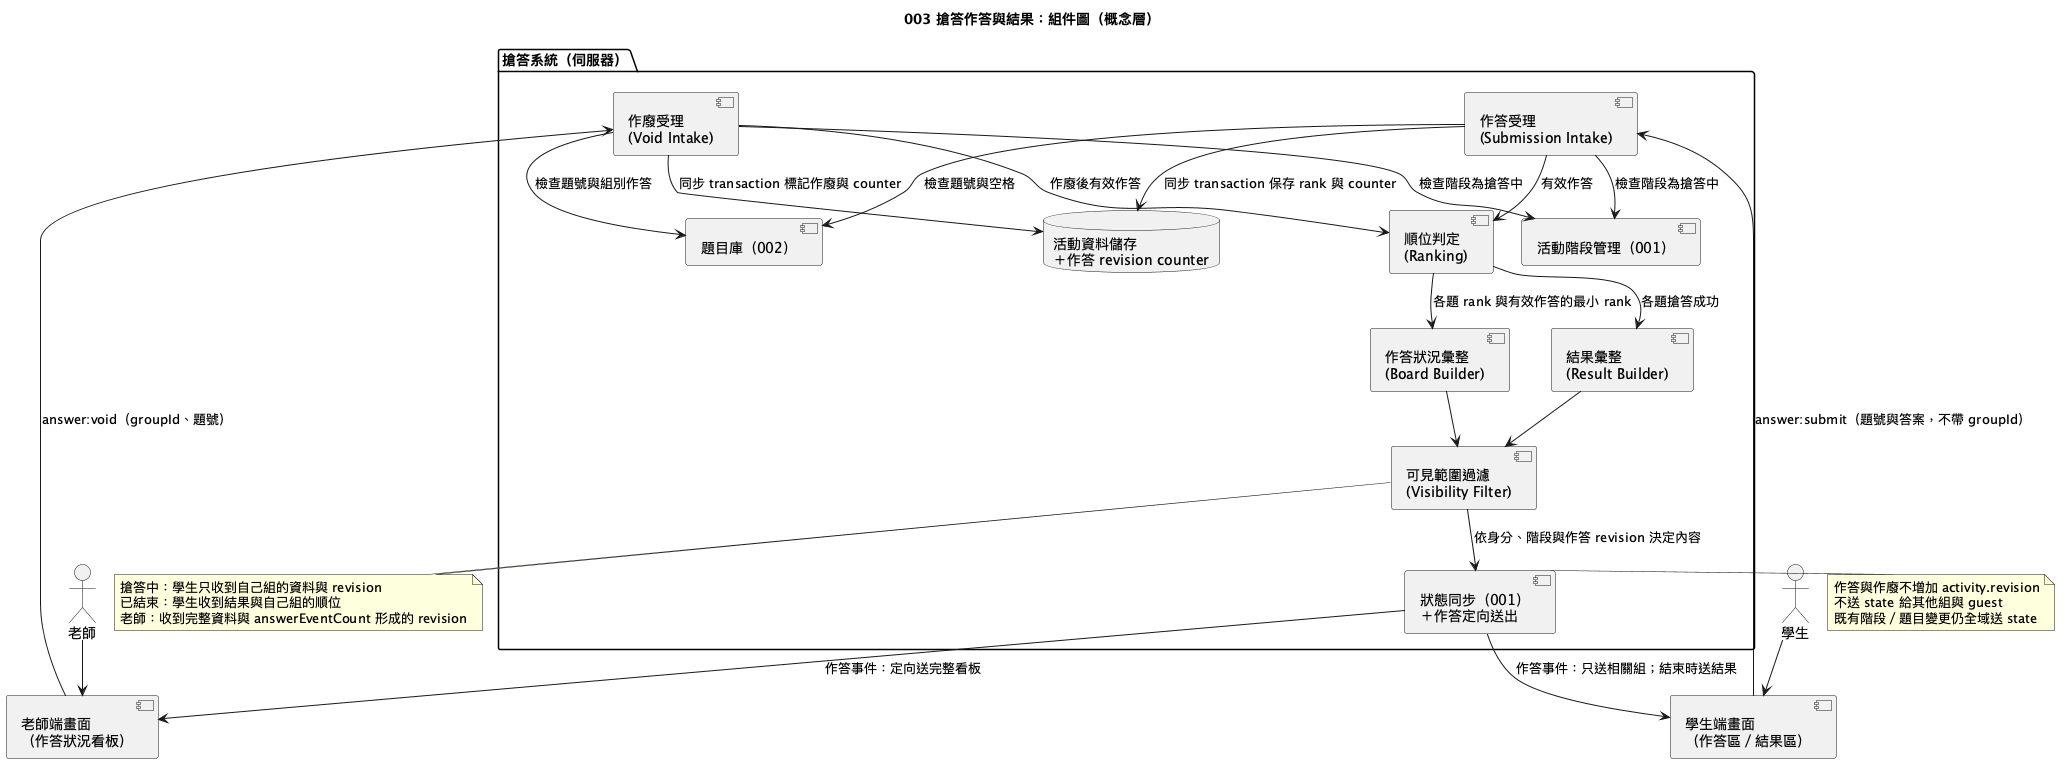
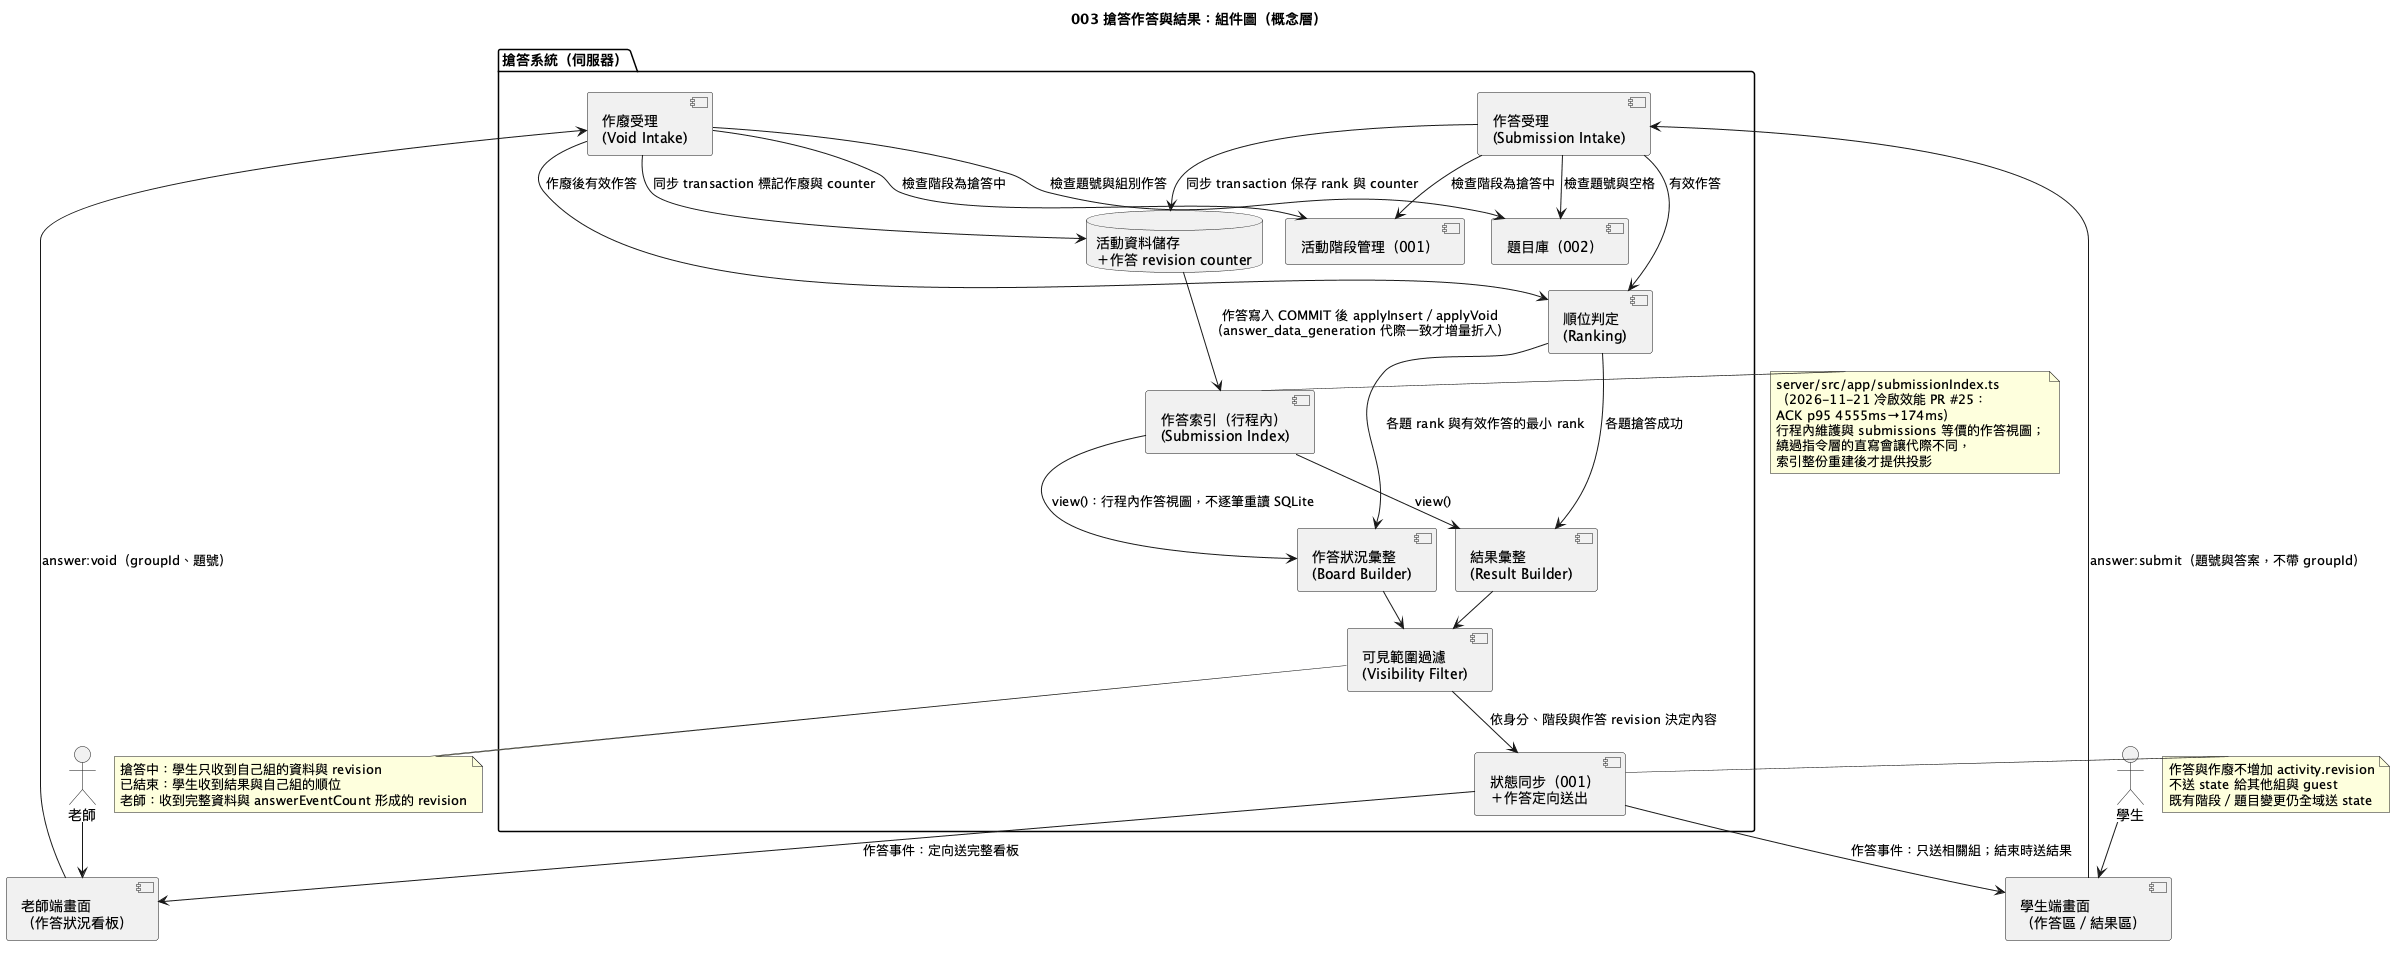
docs(diagrams): 補上 #25/#26/#28 新增模組的圖、plan 對應與 tasks 補記
Diagram First 的最後一哩：11-21～11-23 合併的效能與資安 PR 新增了四個
伺服器模組，但圖沒有跟著更新（001/003 的一致性核對分別停在 11-12、
11-14），「最終程式碼要和圖表完全一致」因此不成立。本 PR 只改文件與
圖，系統行為不變，不需要 OpenSpec 組同意。

- 001 組件圖：新增「進場與連線防護」元件（rateLimiter.ts、
  connectionCap.ts）；身分驗證補上 teacherSession.ts（D18 cookie）
- 001 時序圖（seq-join）：補三條路徑——進場被限流（429）、連線數
  超過上限被拒（握手 403、退避重連）、老師登入與登出（HttpOnly cookie）
- 003 組件圖：新增「作答索引（行程內）」元件（submissionIndex.ts）
- 003 時序圖（seq-submit）：狀態同步加註行程內索引與代際一致性
- plan.md（001/003）：「圖表與模組對應」補上四個模組
- tasks.md：001 補 Phase 10（T080–T083）、003 補 Phase 13（T064–T065）
- 一致性核對文件：各加一節 2026-11-27 複查
- PNG 以 scripts/render-diagrams.sh 重新產生；npm run check 通過
  （含 scripts/check-diagrams.sh）

diff --git a/specs/001-activity-session/tasks.md b/specs/001-activity-session/tasks.md
@@ -231,6 +231,15 @@ Web application，npm workspaces：`shared/`、`server/`、`web/`、`e2e/`（見
 - [x] T078 執行 `npm test`、`npm run test:e2e`、`npm run check`，把指令與輸出記錄在 `docs/verification/001-automated.md`
 - [x] T079 **人工驗證**（由設計與驗證負責人執行）：philip110531 於 2026-11-19 依 quickstart 的人工驗證表完成 **13 個步驟全部通過**、未開 GitHub issue，結果記錄在 `docs/verification/001-manual.md`（含三種獨立瀏覽器 context 的時間性驗收、重啟後階段與組別保留、未設定密碼的情況）
 
+## Phase 10: 資安審計與 D18 追加（2026-11-22～23 實作，2026-11-27 補記）
+
+**Purpose**: Phase 1–9 之後才發生的修改（D18 老師 cookie 登入、資安審計的速率限制與連線上限），程式與規格當時已同步，在此補記對應的 task 與圖表。
+
+- [x] T080 寫 `server/src/infra/http/teacherSession.ts`：老師登入狀態改存 HttpOnly cookie（`HttpOnly; SameSite=Strict; Path=/`，不設 Max-Age、不設 Secure），登出撤銷 session 並以 `Max-Age=0` 清 cookie；伺服器重啟後須重新登入 per FR-002a、AC-001-30（PR #28）
+- [x] T081 寫 `server/src/infra/http/rateLimiter.ts`：同一來源進場／登入的滑動視窗速率限制，超過門檻回 429 `TOO_MANY_ATTEMPTS` per 資安審計 `docs/verification/security-audit-glm-boundary-2026-11-21.md`（PR #26）
+- [x] T082 寫 `server/src/infra/socket/connectionCap.ts`：同時在線連線數上限（`MAX_CONNECTIONS`，預設 500），超過時新的連線在握手階段被拒（HTTP 403），客戶端自動退避重連 per 資安審計（PR #26）
+- [x] T083 把上述模組補進 `diagrams/001-activity-session-component.puml`（進場與連線防護元件）與 `-seq-join.puml`（速率限制、連線上限、老師登入／登出三條路徑），更新 plan.md 對應表，重跑 `scripts/render-diagrams.sh` 與 `scripts/check-diagrams.sh`（2026-11-27，PR 見本分支）
+
 ---
 
 ## Dependencies & Execution Order

diff --git a/docs/verification/001-diagram-consistency.md b/docs/verification/001-diagram-consistency.md
@@ -37,3 +37,19 @@
 ---
 
 PNG 已由監督者以 `scripts/render-diagrams.sh` 產生，`scripts/check-diagrams.sh` 通過。元件圖與類別圖標題由「概念層／領域物件」改為「技術層」。
+
+---
+
+## 2026-11-27 複查：Phase 10 追加模組補進圖
+
+初次核對（2026-11-12）之後，11-22～11-23 合併的 PR #26、#28 新增了三個伺服器模組，當時未畫進任何圖；本次補齊（spec 與行為當時已同步，只是圖與 plan 對應表沒跟上）：
+
+| 模組 | 圖上的呈現 | 狀態 |
+|---|---|---|
+| `server/src/infra/http/teacherSession.ts`（D18 老師 HttpOnly cookie，PR #28） | component 圖：身分驗證 note 補上檔案，`POST /api/teacher/login／logout` 改畫成經防護元件進入驗證；seq-join 新增「老師登入與登出」一節（Set-Cookie 屬性、重啟後須重新登入、登出撤銷 session 並清 cookie） | 已補 |
+| `server/src/infra/http/rateLimiter.ts`（PR #26） | component 圖新增「進場與連線防護 (Admission Guard)」元件與 429 `TOO_MANY_ATTEMPTS` 流程；seq-join 新增速率限制的 alt | 已補 |
+| `server/src/infra/socket/connectionCap.ts`（PR #26） | 同一個防護元件的 note（`MAX_CONNECTIONS` 握手上限、HTTP 403、客戶端退避重連）；seq-join 新增連線被拒的 alt | 已補 |
+
+類別圖本次未改：三個模組都是 infra 層（cookie 處理、限流、連線計數），不是 domain 型別；`Session` 上「老師登入狀態另以 HttpOnly cookie 存放」的註記原本就存在。plan.md「圖表與模組對應」新增「進場與連線防護」一列並把 `teacherSession.ts` 併入身分驗證；tasks.md 補 Phase 10（T080–T083）。屬於 003 的 `submissionIndex.ts`（PR #25）見 `003-diagram-consistency.md`。
+
+PNG 已重新產生，`scripts/check-diagrams.sh` 與 `npm run check` 通過（2026-11-27）。

diff --git a/specs/003-buzz-in/tasks.md b/specs/003-buzz-in/tasks.md
@@ -297,3 +297,8 @@ description: "Task list for 003 搶答作答與結果"
 
 - [x] T062 清理三模型交叉覆核接受的前端殘留狀態：AnswerArea 在任一題送出中停用全部送出按鈕；AnswerBoard 以 cell signature 避免舊確認與舊錯誤隨新作答浮回，並只在 open 且 cell 仍可作廢時顯示相關錯誤，補回歸測試。既有 e2e 同組重送時即使 submitted 仍須保留 ALREADY_SUBMITTED 錯誤，不採用「submitted 一律隱藏錯誤」 per FR-005、FR-029、AC-003-24、AC-003-29 (partial)
 - [x] T063 將 broadcaster 的全域與定向廣播改為每個 socket 各自例外隔離，單一連線失敗不得中止其他連線，log 不含 snapshot 內容，補全域與定向回歸測試 per FR-005、FR-021、FR-030 (partial)
+
+## Phase 13: 冷啟效能追加（2026-11-21 實作，2026-11-27 補記）
+
+- [x] T064 寫 `server/src/app/submissionIndex.ts`：行程內作答索引（與 submissions 等價的 `AnswerDataView`），作答寫入只在 transaction COMMIT 後折入、以 `answer_data_generation` 代際計數器保證一致（繞過指令層的直寫會整份重建）；廣播改由索引組出快照、同輪共用視圖，不再逐筆重讀 SQLite（ACK p95 4555ms→174ms）per FR-005、FR-021（PR #25，效能審計 `docs/verification/perf-coldstart-audit-2026-11-21.md`）
+- [x] T065 把作答索引補進 `diagrams/003-buzz-in-component.puml`（作答索引元件）與 `-seq-submit.puml`（狀態同步的註記），更新 plan.md 對應表，重跑 `scripts/render-diagrams.sh` 與 `scripts/check-diagrams.sh`（2026-11-27，PR 見本分支）

diff --git a/docs/verification/003-diagram-consistency.md b/docs/verification/003-diagram-consistency.md
@@ -52,3 +52,18 @@
 ## 結論
 
 四張圖與程式一致，無需修改 `.puml`，無需重 render；`scripts/check-diagrams.sh` PASS。005 實作公平順位與投影看板時，需回頭同步這四張圖（特別是「順位規則」的實作類別與投影看板新畫面）。
+
+---
+
+## 2026-11-27 複查：冷啟效能模組補進圖
+
+初次核對（2026-11-14）之後，2026-11-21 合併的 PR #25 新增了 `server/src/app/submissionIndex.ts`（行程內作答索引），當時未畫進圖；本次補齊：
+
+| 項目 | 圖上的呈現 | 狀態 |
+|---|---|---|
+| 組件圖 | 新增「作答索引（行程內）(Submission Index)」元件：`Store → Index`（作答寫入 COMMIT 後 `applyInsert`／`applyVoid`，代際一致才增量折入）、`Index → Board`／`Index → Result`（`view()` 供投影，不逐筆重讀 SQLite），附 note 說明 `answer_data_generation` 代際計數器與 ACK p95 4555ms→174ms | 已補 |
+| 時序圖（seq-submit） | 「狀態同步」參與者加註：廣播快照經行程內索引取得、同輪共用視圖、一致性由代際保證 | 已補 |
+
+plan.md「圖表與模組對應」新增「作答索引（行程內）」一列；tasks.md 補 Phase 13（T064–T065）。類別圖未改：索引是 infra 廣播層的結構，`SubmissionRecord` 等 domain 型別不變。
+
+PNG 已重新產生，`scripts/check-diagrams.sh` 與 `npm run check` 通過（2026-11-27）。

diff --git a/specs/003-buzz-in/plan.md b/specs/003-buzz-in/plan.md
@@ -63,6 +63,7 @@ Phase 1 設計完成後重新檢查：結果相同，沒有違反項目。
 | 作答狀況彙整（Board Builder） | `server/src/app/answerProjections.ts` 的老師 `board` 與 `progress` |
 | 結果彙整（Result Builder） | `server/src/app/answerProjections.ts` 與 `server/src/domain/answerRanks.ts` 的 `decideWinner()` |
 | 狀態同步（001） | `server/src/infra/socket/broadcaster.ts`；新增定向 `broadcastSubmissionChanged(groupId)` |
+| 作答索引（行程內） | `server/src/app/submissionIndex.ts`（2026-11-21 冷啟效能 PR #25：廣播改讀行程內作答視圖，2026-11-27 補記） |
 | 活動階段管理（001） | `server/src/app/activityCommands.ts`；reset 清空作答並更新 `sessionId` |
 | 題目庫（002） | `server/src/app/questionBank.ts`、`questionRepo.ts`；提供題號、空格數、prefix |
 | 老師端畫面 | `web/src/features/teacher/AnswerBoard.tsx`（看板、進度、作廢確認）、`TeacherPage.tsx` |

diff --git a/specs/001-activity-session/plan.md b/specs/001-activity-session/plan.md
@@ -56,7 +56,8 @@ specify 階段的圖是概念層；本計畫把每個概念元件對應到實際
 
 | 圖中的元件（`diagrams/001-*-component.puml`） | 模組 |
 |---|---|
-| 身分驗證 (Access Control) | `server/src/app/access.ts`、`server/src/infra/http/authRoutes.ts` |
+| 身分驗證 (Access Control) | `server/src/app/access.ts`、`server/src/infra/http/authRoutes.ts`、`server/src/infra/http/teacherSession.ts`（D18 老師 HttpOnly cookie 登入／登出，PR #28，2026-11-27 補記） |
+| 進場與連線防護 (Admission Guard) | `server/src/infra/http/rateLimiter.ts`、`server/src/infra/socket/connectionCap.ts`（資安審計 PR #26，2026-11-27 補記） |
 | 組別管理 (Group Registry) | `server/src/domain/groupRegistry.ts`、`server/src/app/groupCommands.ts` |
 | 活動階段管理 (Activity Phase Manager) | `server/src/domain/activity.ts`、`server/src/app/activityCommands.ts` |
 | 倒數計時 (Countdown) | `server/src/app/countdown.ts` |
